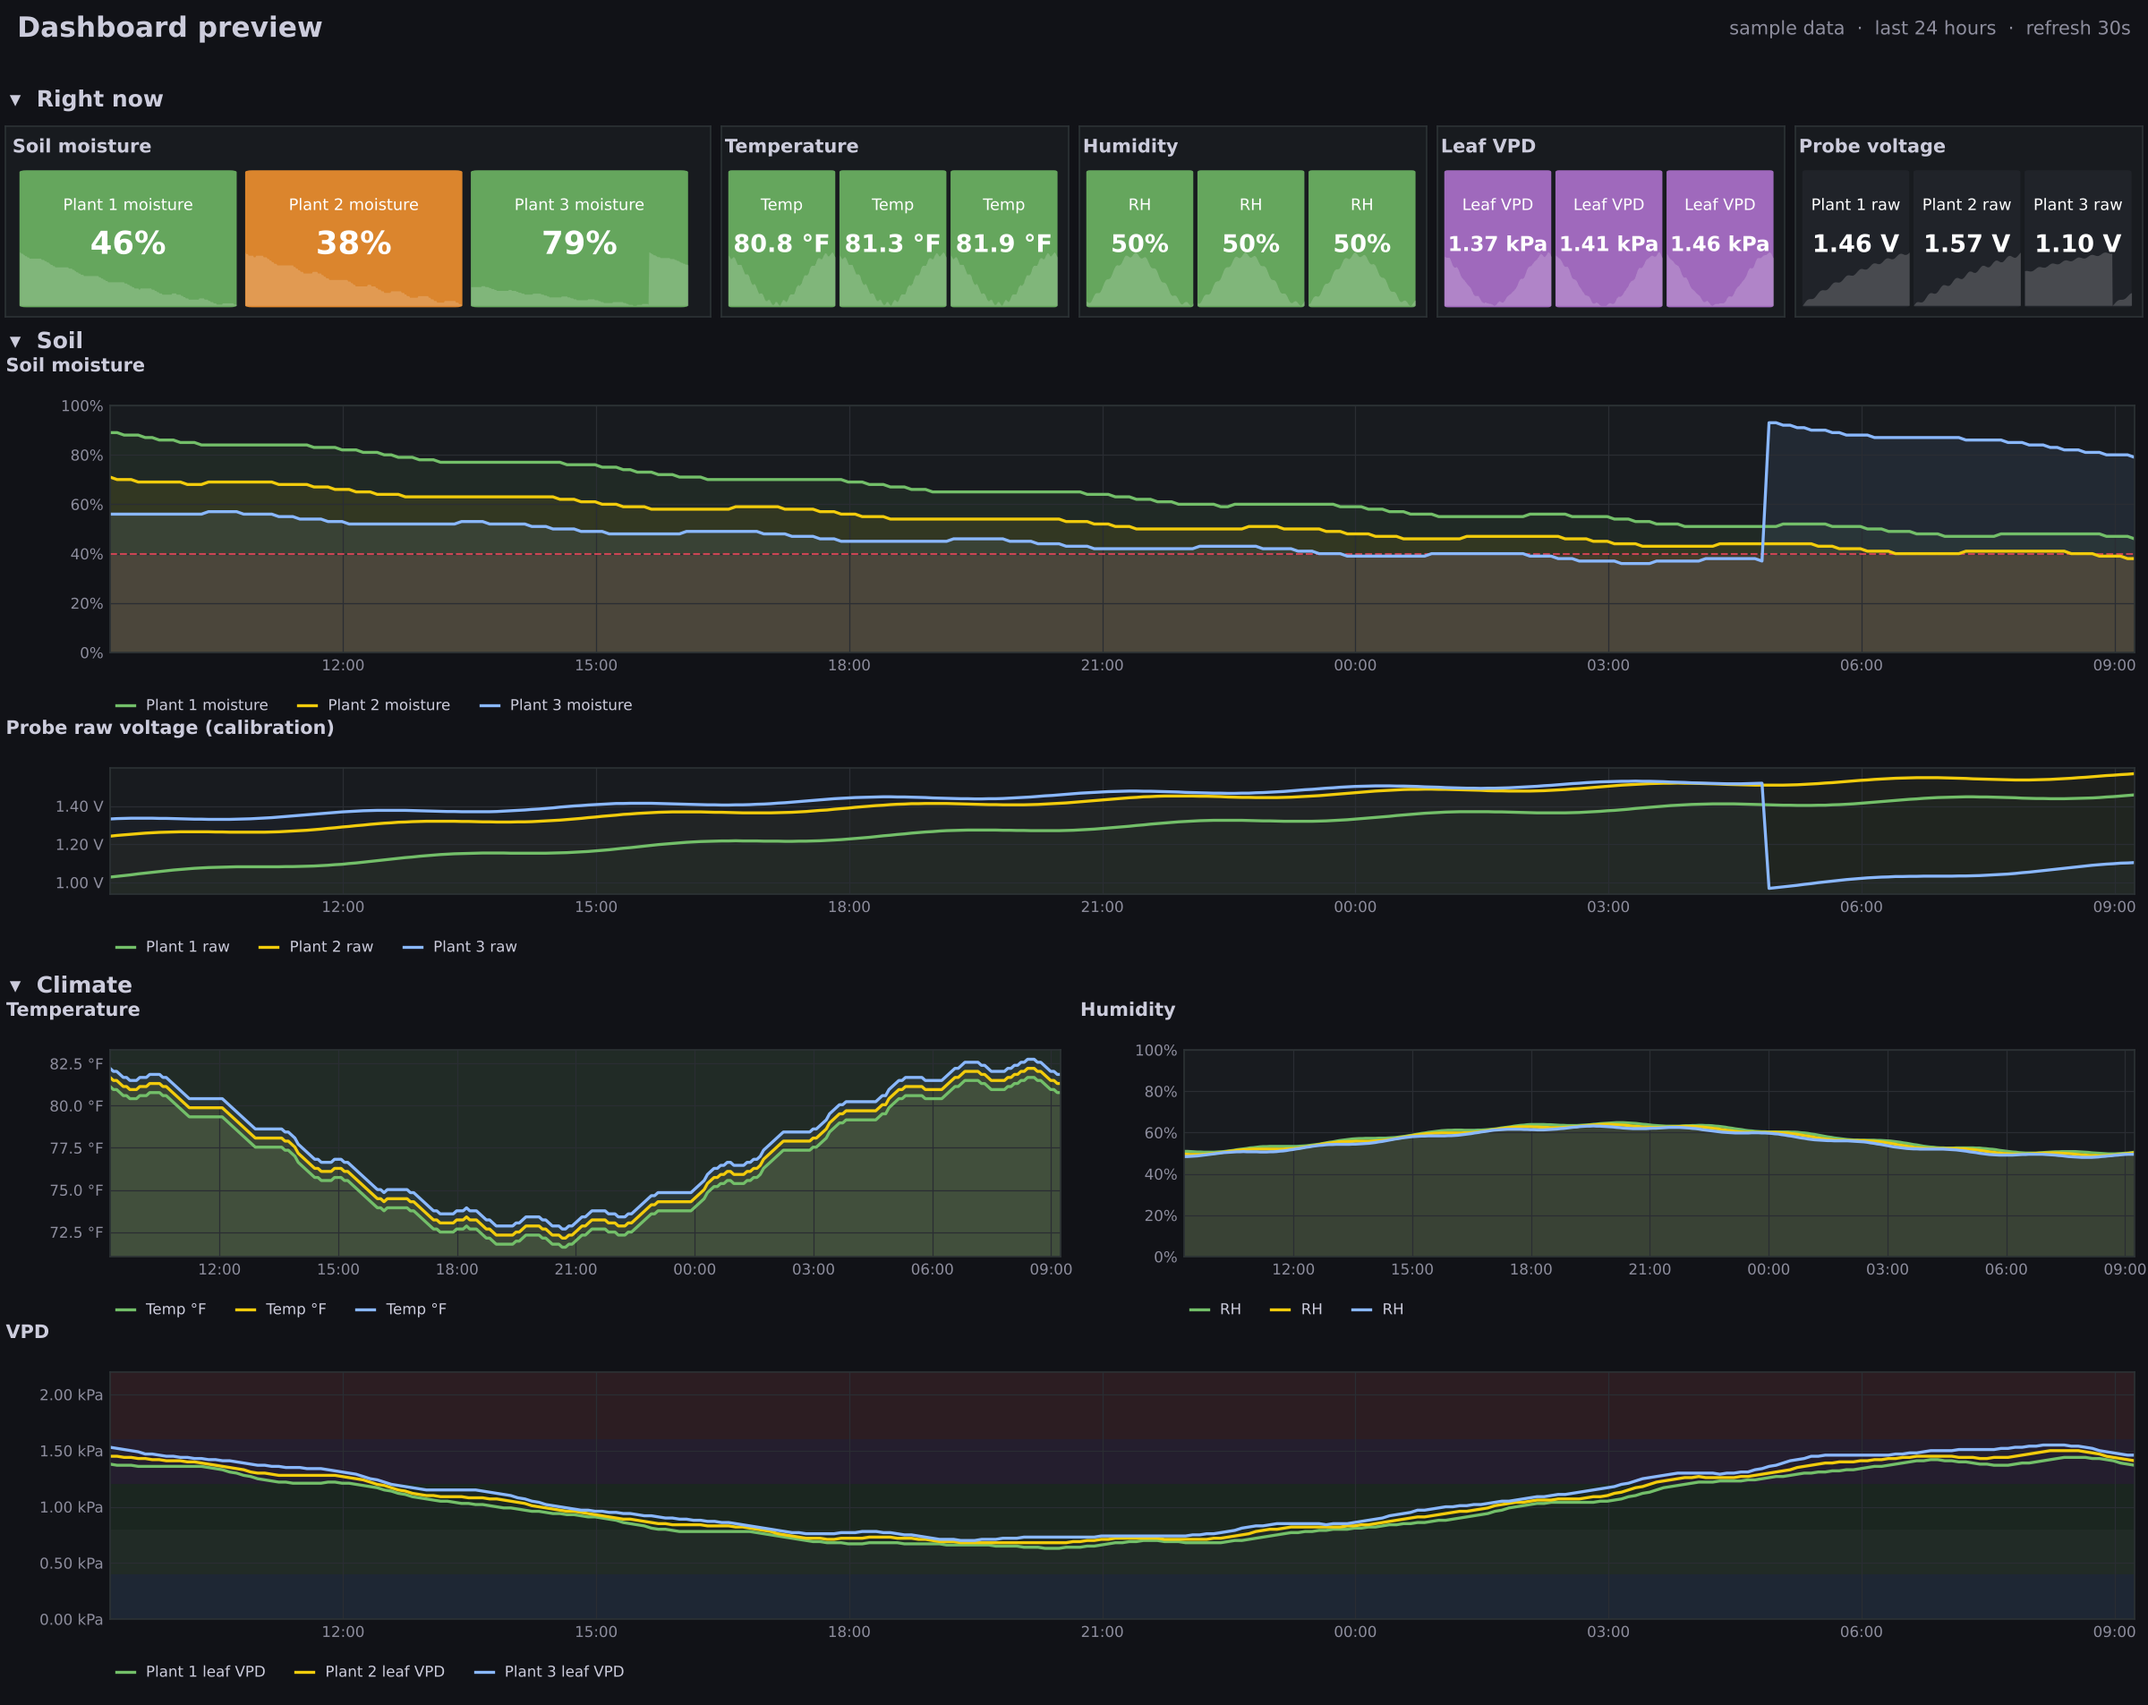
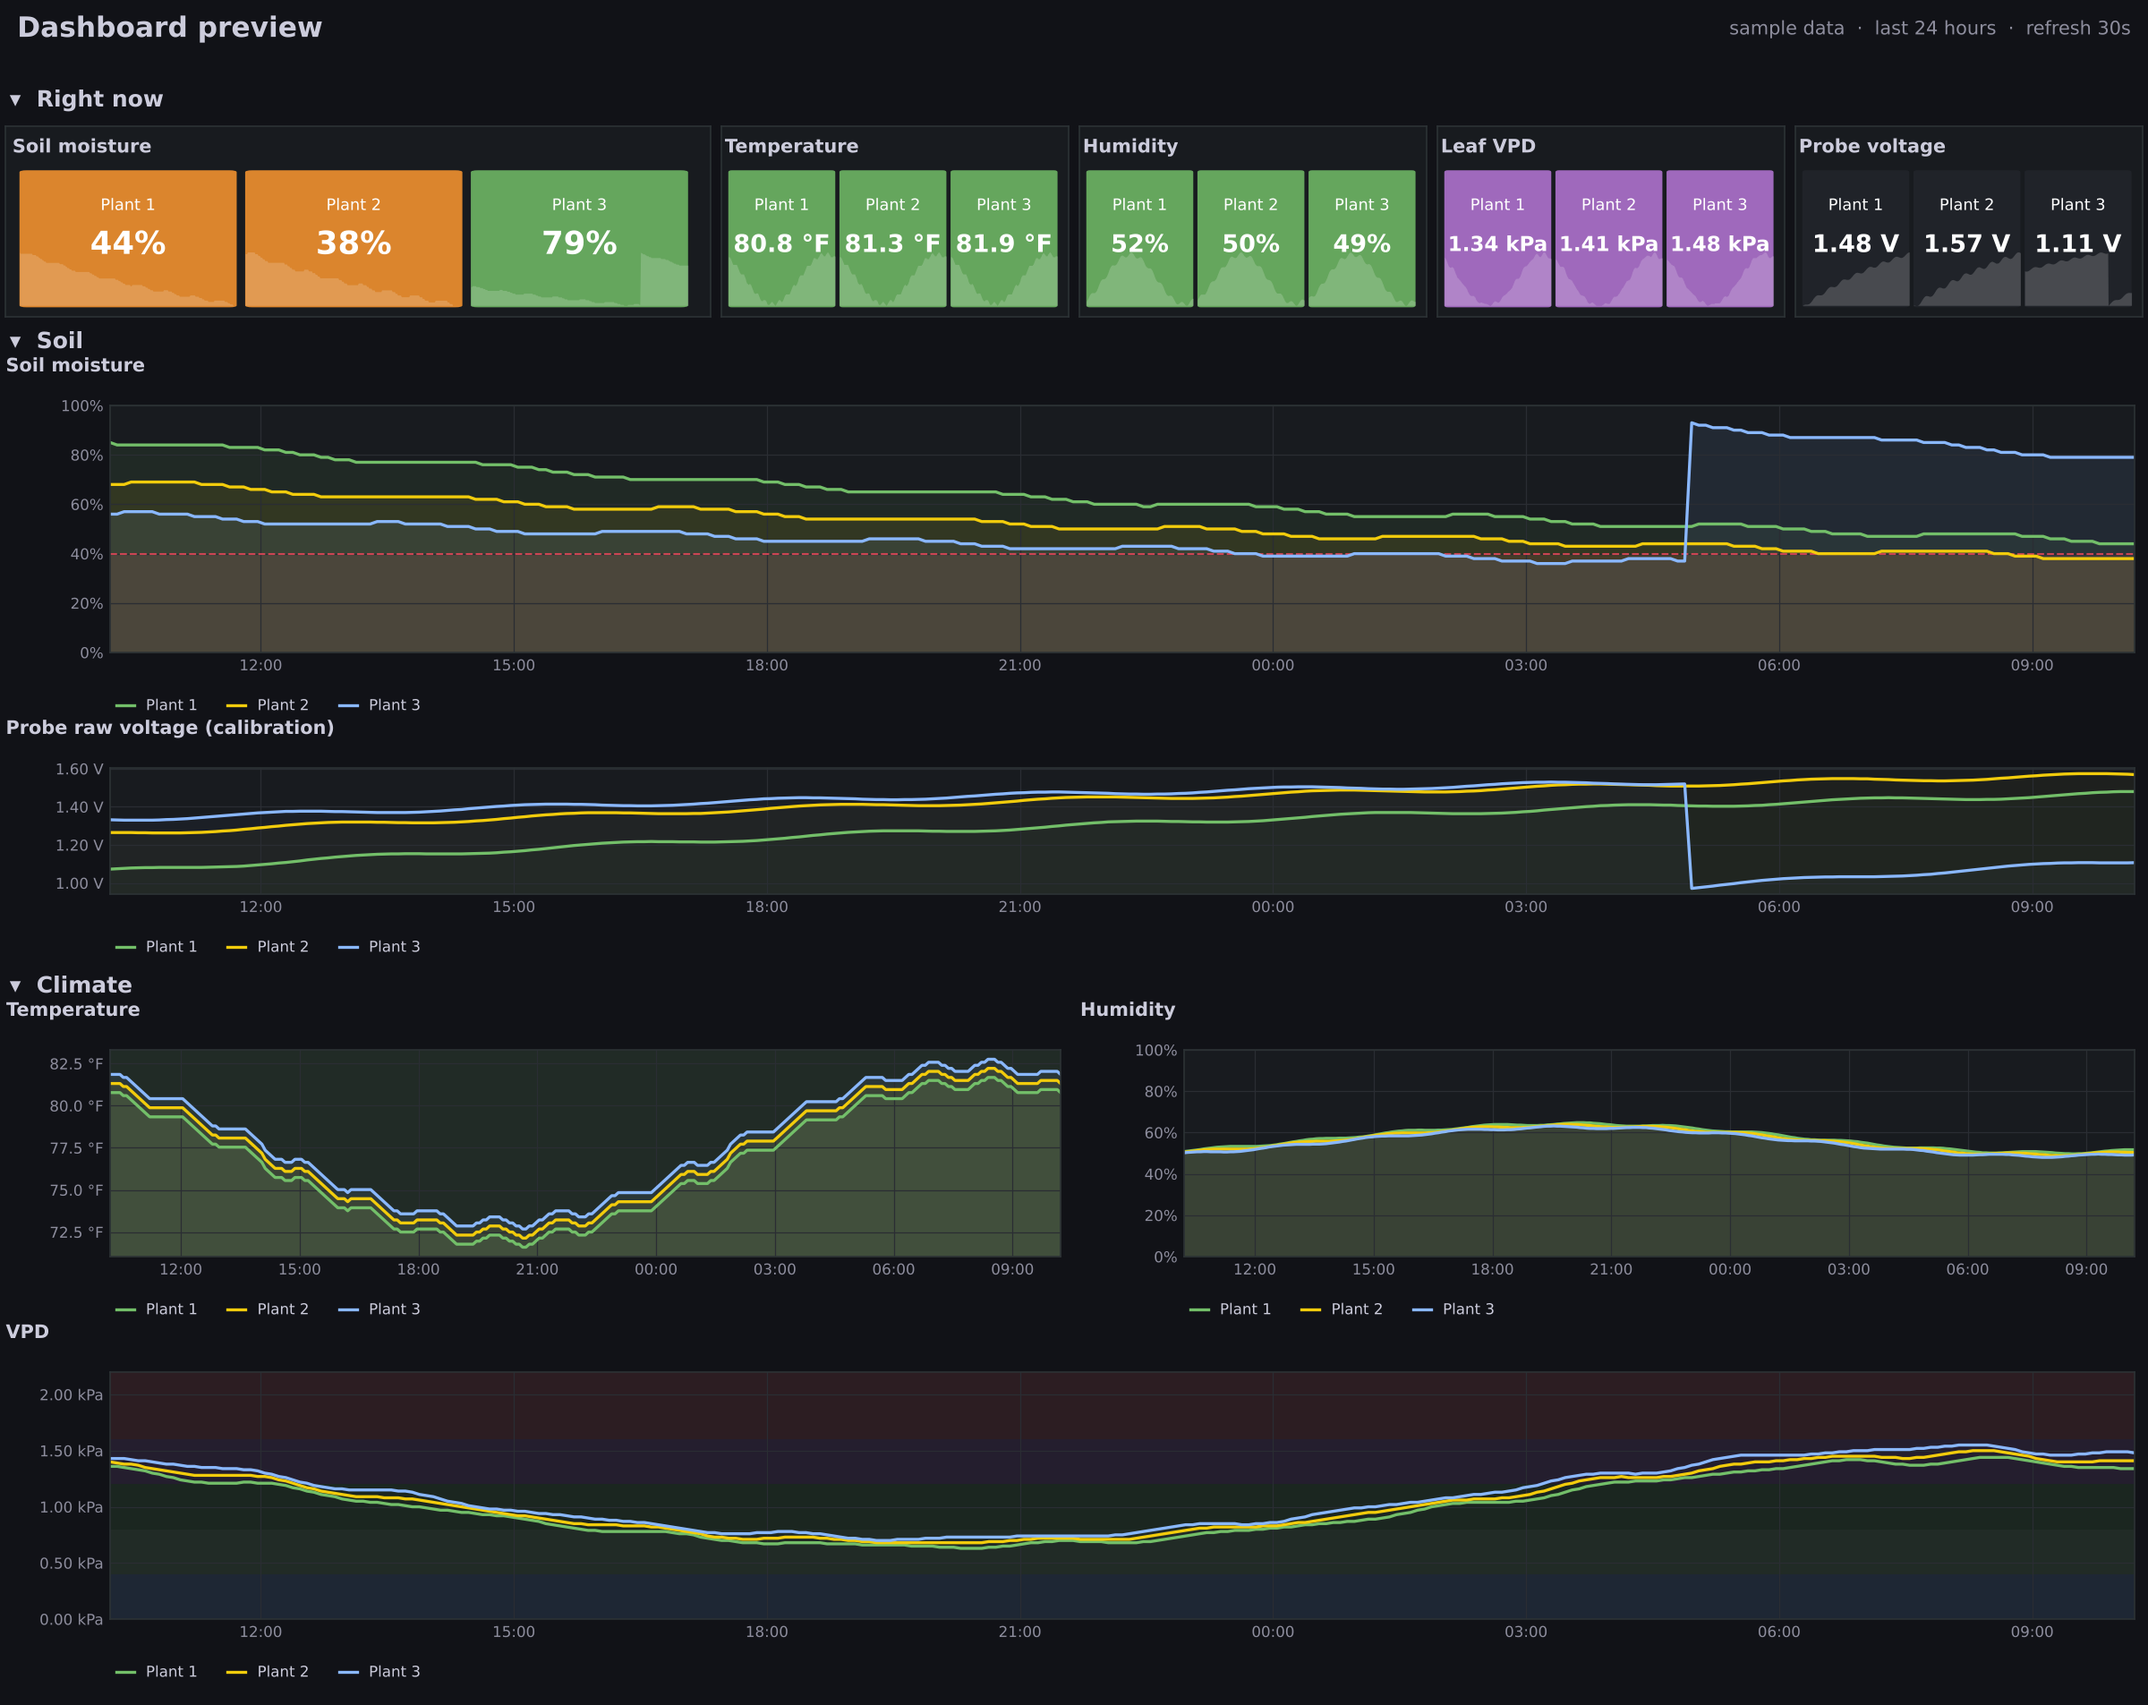
Dashboard: label every series by stake; document the site VLAN
- Every panel labels series "Plant N" (from the sensor name via
  label_replace), so the Temperature, Humidity and Leaf VPD tiles no
  longer all say Temp / RH / Leaf VPD. Other sensor names fall back to
  their full name.
- deploy/README: Pi and stakes on their own VLAN with fixed addresses
  (DHCP reservations), 2.4 GHz SSID, firewall rules
- Regenerated dashboard preview

Claude-Session: https://claude.ai/code/session_01H1o7ttPdKKmLaGabGhFjTJ

diff --git a/deploy/README.md b/deploy/README.md
@@ -134,13 +134,29 @@ The Pi joins your tailnet and acts as a **subnet router** for the stakes' networ
 
 ### Pick the stakes' subnet
 
-The stakes' network must not overlap your home network, or routing breaks. The examples in this repo use **`10.42.0.0/24`** with stakes at `10.42.0.11`–`.15`. Use whatever the stakes are actually on, and keep these in step:
+The Pi and the stakes get **their own VLAN at the site, with addresses decided in advance**. Pick a subnet that doesn't overlap your home network (or routing over Tailscale breaks) and isn't a common default like `192.168.1.0/24`. The examples in this repo use **`10.42.0.0/24`**:
 
-- `stake_ip` in each stake's file (`firmware/stakes/` and the add-on)
+| Device | Address |
+|---|---|
+| Gateway (the VLAN's router interface) | `10.42.0.1` |
+| Raspberry Pi | `10.42.0.10` |
+| Stakes 1–5 | `10.42.0.11`–`10.42.0.15` |
+
+Give each device its address with a **DHCP reservation** on the VLAN (by MAC address). That keeps the addresses in one place: the stake firmware doesn't need to know the gateway or DNS, and you can move the VLAN later without reflashing. A stake's MAC address is in the add-on's logs on its first boot, or in the router's client list.
+
+Then keep these three in step whenever a stake's address changes:
+
+- `stake_ip` in its firmware file (`firmware/stakes/` and the add-on)
 - `dashboard/prometheus/targets/stakes.yml`
-- the DHCP reservations that give each stake its fixed IP
+- its DHCP reservation
 
-If the site's network is something common like `192.168.1.0/24` and so is yours at home, the stakes need their own network. One way is a separate Wi-Fi network (VLAN) for them at the site. Another is to have the Pi run a Wi-Fi network just for the stakes on an unusual subnet, with Ethernet as its uplink.
+**Wi-Fi:** give the VLAN its own SSID on 2.4 GHz (the ESP32-C3 has no 5 GHz) with WPA2-PSK. Use that SSID and password for `wifi_ssid` / `wifi_password` in the add-on's secrets. WPA3-only can be unreliable with ESP32 boards, so allow WPA2.
+
+**Firewall rules for the VLAN** (recommended):
+
+- The **Pi** needs outbound internet: GitHub (to pull `main`), Docker Hub (images), Tailscale, and ntfy if you use it. Nothing needs to reach it from the internet.
+- The **stakes** need nothing outside the VLAN. Block their internet access and any route to other VLANs. Everything that talks to them (Prometheus on the Pi, Home Assistant over Tailscale) comes through the Pi.
+- Allow the Pi to reach the stakes on TCP 80 (web page and `/metrics`), TCP 6053 (the ESPHome API), TCP 3232 (firmware updates on ESP32) and ping (the add-on uses it to show a stake as online). Home Assistant's traffic arrives through the Pi's Tailscale route, so to the VLAN it looks like it comes from the Pi; this one rule covers both.
 
 ### On the Pi
 

diff --git a/README.md b/README.md
@@ -348,9 +348,18 @@ esphome_sensor_value{name=~"(?i).*moisture.*"}
 
 So as soon as Prometheus is reading a new stake, its moisture, temperature, humidity, VPD and raw voltage appear on the dashboard with no Grafana changes. This also means a sensor needs one of those words in its name to be picked up.
 
+Every tile and graph line is labelled by stake (**Plant 1**, **Plant 2**, …), taken from the sensor name. Each query wraps the match in `label_replace` to build that label:
+
+```promql
+label_replace(label_replace(esphome_sensor_value{name=~"(?i).*moisture.*"},
+  "stake", "$1", "name", "(.*)"),                 # default: the full sensor name
+  "stake", "Plant $1", "name", "Plant ([0-9]+) .*")  # stake firmware: "Plant N"
+```
+
+The panels use `{{stake}}` as their legend. A sensor whose name doesn't start with `Plant N` still shows up, under its full name.
+
 #### Known limitations
 
-- **Temperature, Humidity and Leaf VPD tiles** use fixed legend text (`Temp`, `RH`, `Leaf VPD`), so with several stakes every tile has the same label. The order matches the stake order, but it's easy to mix up. The moisture and voltage panels show the full sensor name.
 - **Leaf VPD tile vs VPD graph:** the tile matches `leaf…vpd`, the graph matches any sensor with `vpd` in its name. With the stake firmware they show the same sensors.
 - Short gaps (a stake rebooting, a missed scrape) are bridged on the graphs if they're under 5 minutes. Longer gaps show as breaks.
 
